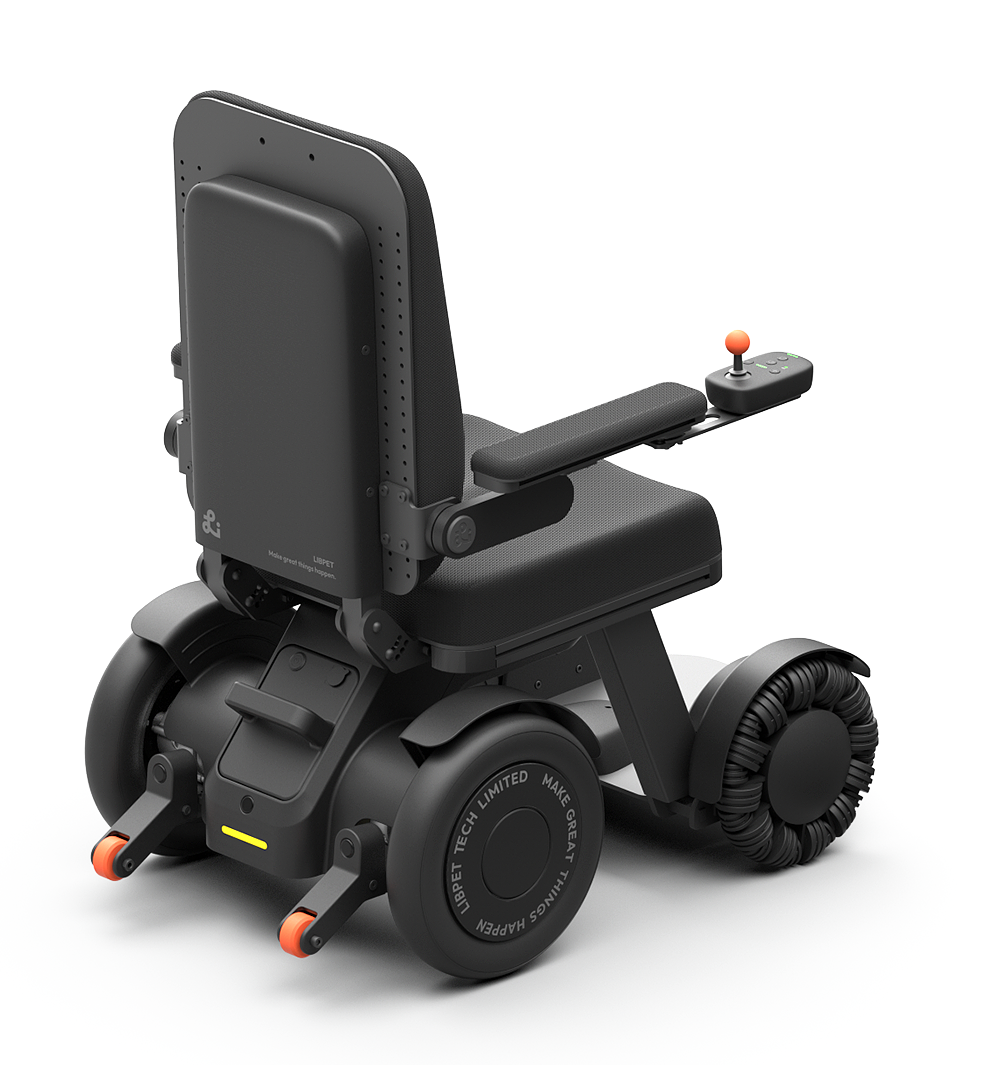
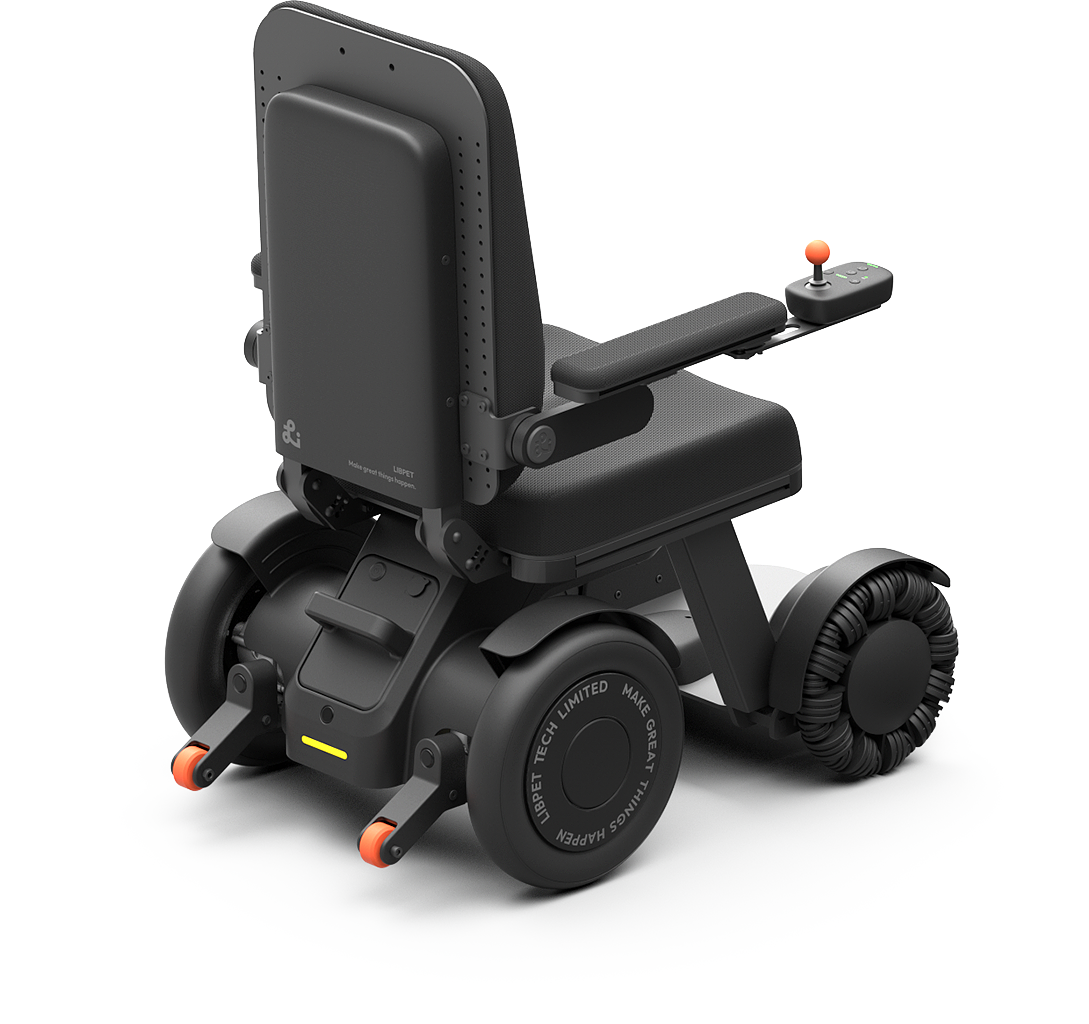
components updated

diff --git a/components.html b/components.html
@@ -151,7 +151,34 @@
     <div class="components-main-container">
       <div class="components-main-left">
         <div class="components-main-showcase">
-          <img src="img/components/air-all.png" alt="" />
+          <img src="img/components/air-base.png" alt="" id="base" />
+          <img src="img/components/air-headRest.png" alt="" id="headrest" />
+          <img
+            src="img/components/air-pushHandler.png"
+            alt=""
+            id="pushhandlers"
+          />
+          <img
+            src="img/components/air-phoneHolder.png"
+            alt=""
+            id="phoneholder"
+          />
+          <img src="img/components/air-storageBag.png" alt="" id="storagebag" />
+          <img
+            src="img/components/air-sideGuardArm.png"
+            alt=""
+            id="sideguardarm"
+          />
+          <img
+            src="img/components/air-sideGuardThigh.png"
+            alt=""
+            id="sideguardthigh"
+          />
+          <img
+            src="img/components/air-infusionBracket.png"
+            alt=""
+            id="infusionbracket"
+          />
         </div>
       </div>
 
@@ -165,33 +192,33 @@
         <div class="components-main-accessories">
           <p>Choose accessories</p>
           <div class="accessories-list">
-            <div class="accessories-item2">
+            <div class="accessories-item2" id="selectHeadRest">
               <img src="img/components/headrest.png" alt="" />
               <h5>Headrest</h5>
             </div>
-            <div class="accessories-item2">
+            <div class="accessories-item2" id="selectPushHandlers">
               <img src="img/components/pushhandlers.png" alt="" />
               <h5>Push Handlers</h5>
             </div>
-            <div class="accessories-item2">
+            <div class="accessories-item2" id="selectPhoneHolder">
               <img src="img/components/phoneholder.png" alt="" />
               <h5>Phone Holder</h5>
             </div>
-            <div class="accessories-item2">
+            <div class="accessories-item2" id="selectStorageBag">
               <img src="img/components/storagebag.png" alt="" />
               <h5>Storage Bag</h5>
             </div>
             <div class="accessories-guard">
-              <div class="accessories-item2">
+              <div class="accessories-item2" id="selectArmGuard">
                 <img src="img/components/sideguard.png" alt="" />
                 <h5>Side Guard <br />(Arm)</h5>
               </div>
-              <div class="accessories-item2">
+              <div class="accessories-item2" id="selectThighGuard">
                 <img src="img/components/sideguard.png" alt="" />
                 <h5>Side Guard <br />(Thigh)</h5>
               </div>
             </div>
-            <div class="accessories-item2">
+            <div class="accessories-item2" id="selectInfusionBracket">
               <img src="img/components/infusionbracket.png" alt="" />
               <h5>Infusion Bracket</h5>
             </div>
@@ -248,22 +275,12 @@
     <script src="js/jquery.easing.min.js"></script>
 
     <script
-      src="https://cdnjs.cloudflare.com/ajax/libs/gsap/2.1.3/TweenMax.min.js"
-      integrity="sha512-DkPsH9LzNzZaZjCszwKrooKwgjArJDiEjA5tTgr3YX4E6TYv93ICS8T41yFHJnnSmGpnf0Mvb5NhScYbwvhn2w=="
-      crossorigin="anonymous"
-      referrerpolicy="no-referrer"
-    ></script>
-    <script src="//cdnjs.cloudflare.com/ajax/libs/ScrollMagic/2.0.7/ScrollMagic.min.js"></script>
-    <script src="//cdnjs.cloudflare.com/ajax/libs/ScrollMagic/2.0.7/plugins/debug.addIndicators.min.js"></script>
-
-    <script
       src="https://kit.fontawesome.com/e2ba1227d7.js"
       crossorigin="anonymous"
     ></script>
 
     <script src="js/nav.js"></script>
     <script src="js/swiper-bundle.min.js"></script>
-    <script src="js/index-swiper.js"></script>
     <script src="js/glide.js"></script>
 
     <script>
@@ -285,33 +302,109 @@
         }
       };
 
+      $(document).scroll(function () {
+        requestAnimationFrame(checkOffset);
+      });
+
+      function checkOffset() {
+        if (
+          $(".components-main-showcase").offset().top +
+            $(".components-main-showcase").height() >=
+          $(".footer-section").offset().top -
+            300 -
+            $(".footer-section").height()
+        ) {
+          $(".components-main-showcase").css("position", "absolute");
+          $(".components-main-showcase").css("bottom", "-20%");
+        }
+        if (
+          $(document).scrollTop() + window.innerHeight <
+          $(".footer-section").offset().top + 100
+        ) {
+          $(".components-main-showcase").css("position", "fixed"); // restore when you scroll up
+          $(".components-main-showcase").css("bottom", "75%");
+        }
+      }
+
       // 獲取所有按鈕元素
       const buttons = document.querySelectorAll(".model-button");
 
       buttons[0].classList.add("active");
-      
-      // 遍歷每個按鈕
+
       buttons.forEach((btn) => {
-        // 為每個按鈕添加點擊事件監聽器
         btn.addEventListener("click", function () {
-          // 移除所有按鈕的 'active' 類
           buttons.forEach((b) => b.classList.remove("active"));
-          // 為當前點擊的按鈕添加 'active' 類
           this.classList.add("active");
         });
       });
 
-      // 獲取所有 .accessories-item2 元素
       const items = document.querySelectorAll(".accessories-item2");
 
-      // 遍歷每個 .accessories-item2 元素
       items.forEach((item) => {
-        // 為每個 .accessories-item2 元素添加點擊事件監聽器
         item.addEventListener("click", function () {
-          // 切換當前元素的 'active' 類
           this.classList.toggle("active");
+
+          const activeItems = document.querySelectorAll(
+            ".accessories-item2.active"
+          );
+
+          // 獲取所有具有 active 類別的元素的 ID
+          const activeIds = Array.from(activeItems).map((item) => item.id);
+
+          handleVisibility(activeIds);
         });
       });
+
+      function handleVisibility(activeIds) {
+        // 處理 headrest 元素的可見性
+        if (activeIds.includes("selectHeadRest")) {
+          document.getElementById("headrest").style.opacity = "1";
+        } else {
+          document.getElementById("headrest").style.opacity = "0";
+        }
+
+        // 處理 pushhandlers 元素的可見性
+        if (activeIds.includes("selectPushHandlers")) {
+          document.getElementById("pushhandlers").style.opacity = "1";
+        } else {
+          document.getElementById("pushhandlers").style.opacity = "0";
+        }
+
+        // 處理 phoneholder 元素的可見性
+        if (activeIds.includes("selectPhoneHolder")) {
+          document.getElementById("phoneholder").style.opacity = "1";
+        } else {
+          document.getElementById("phoneholder").style.opacity = "0";
+        }
+
+        // 處理 storagebag 元素的可見性
+        if (activeIds.includes("selectStorageBag")) {
+          document.getElementById("storagebag").style.opacity = "1";
+        } else {
+          document.getElementById("storagebag").style.opacity = "0";
+        }
+
+        // 處理 sideguardarm 元素的可見性
+        if (activeIds.includes("selectArmGuard")) {
+          document.getElementById("sideguardarm").style.opacity = "1";
+        } else {
+          document.getElementById("sideguardarm").style.opacity = "0";
+        }
+
+        // 處理 sideguardthigh 元素的可見性
+        if (activeIds.includes("selectThighGuard")) {
+          document.getElementById("sideguardthigh").style.opacity = "1";
+        } else {
+          document.getElementById("sideguardthigh").style.opacity = "0";
+        }
+
+        // 處理 infusionbracket 元素的可見性
+        if (activeIds.includes("selectInfusionBracket")) {
+          document.getElementById("infusionbracket").style.opacity = "1";
+        } else {
+          document.getElementById("infusionbracket").style.opacity = "0";
+        }
+      }
     </script>
   </body>
 </html>

diff --git a/css/components.css b/css/components.css
@@ -6,7 +6,7 @@
   font-weight: 400;
   max-width: 1600px;
   margin: 0 auto;
-  padding: 2% 0 0 5%;
+  padding: 1% 0 0 5%;
 }
 
 .components-main-container {
@@ -15,19 +15,77 @@
   align-items: flex-start;
   max-width: 1600px;
   margin: 0 auto;
-  padding: 2% 0 0 0;
+  padding: 1% 0 0 0;
 }
 
 .components-main-container .components-main-left {
-  width: 60%;
+  width: 70%;
+  position: relative;
+  min-height: 900px;
 }
 
 .components-main-container .components-main-right {
   width: 30%;
 }
 
+.components-main-showcase{
+  position: fixed;
+  scale: 0.9;
+}
+
 .components-main-showcase img {
-  width: 75%;
+  position: absolute;
+  top: 0;
+  left: 0;
+  scale: 0.8;
+  transition: all 0.3s;
+}
+
+.components-main-showcase #base {
+  top: 15px;
+}
+
+.components-main-showcase #headrest {
+  top: 0;
+  left: 315px;
+  opacity: 0;
+  transition: all 0.3s;
+}
+
+.components-main-showcase #pushhandlers {
+  top: 115px;
+  left: 200px;
+  opacity: 0;
+}
+
+.components-main-showcase #phoneholder {
+  top: 254px;
+  left: 794px;
+  opacity: 0;
+}
+
+.components-main-showcase #storagebag {
+  top: 265px;
+  left: 201px;
+  opacity: 0;
+}
+
+.components-main-showcase #sideguardarm {
+  top: 175px;
+  left: 241px;
+  opacity: 0;
+}
+
+.components-main-showcase #sideguardthigh {
+  top: 374px;
+  left: 638px;
+  opacity: 0;
+}
+
+.components-main-showcase #infusionbracket {
+  top: -155px;
+  left: 437px;
+  opacity: 0;
 }
 
 .components-main-model,
@@ -68,7 +126,7 @@
   margin-bottom: 15px;
   text-align: left;
   padding: 25px 0 25px 20px;
-  width: 75%;
+  width: 82%;
   transition: all 0.2s ease-in-out;
 }
 
@@ -118,12 +176,12 @@
   margin-bottom: 70px;
   text-align: center;
   padding: 20px 0 20px 0;
-  width: 75%;
+  width: 82%;
   transition: all 0.2s ease-in-out;
 }
 
 .components-main-submit button:hover {
-  background-color: #FFFFFF;
+  background-color: #ffffff;
   border: #ff6317 3px solid;
   color: #000000;
 }
